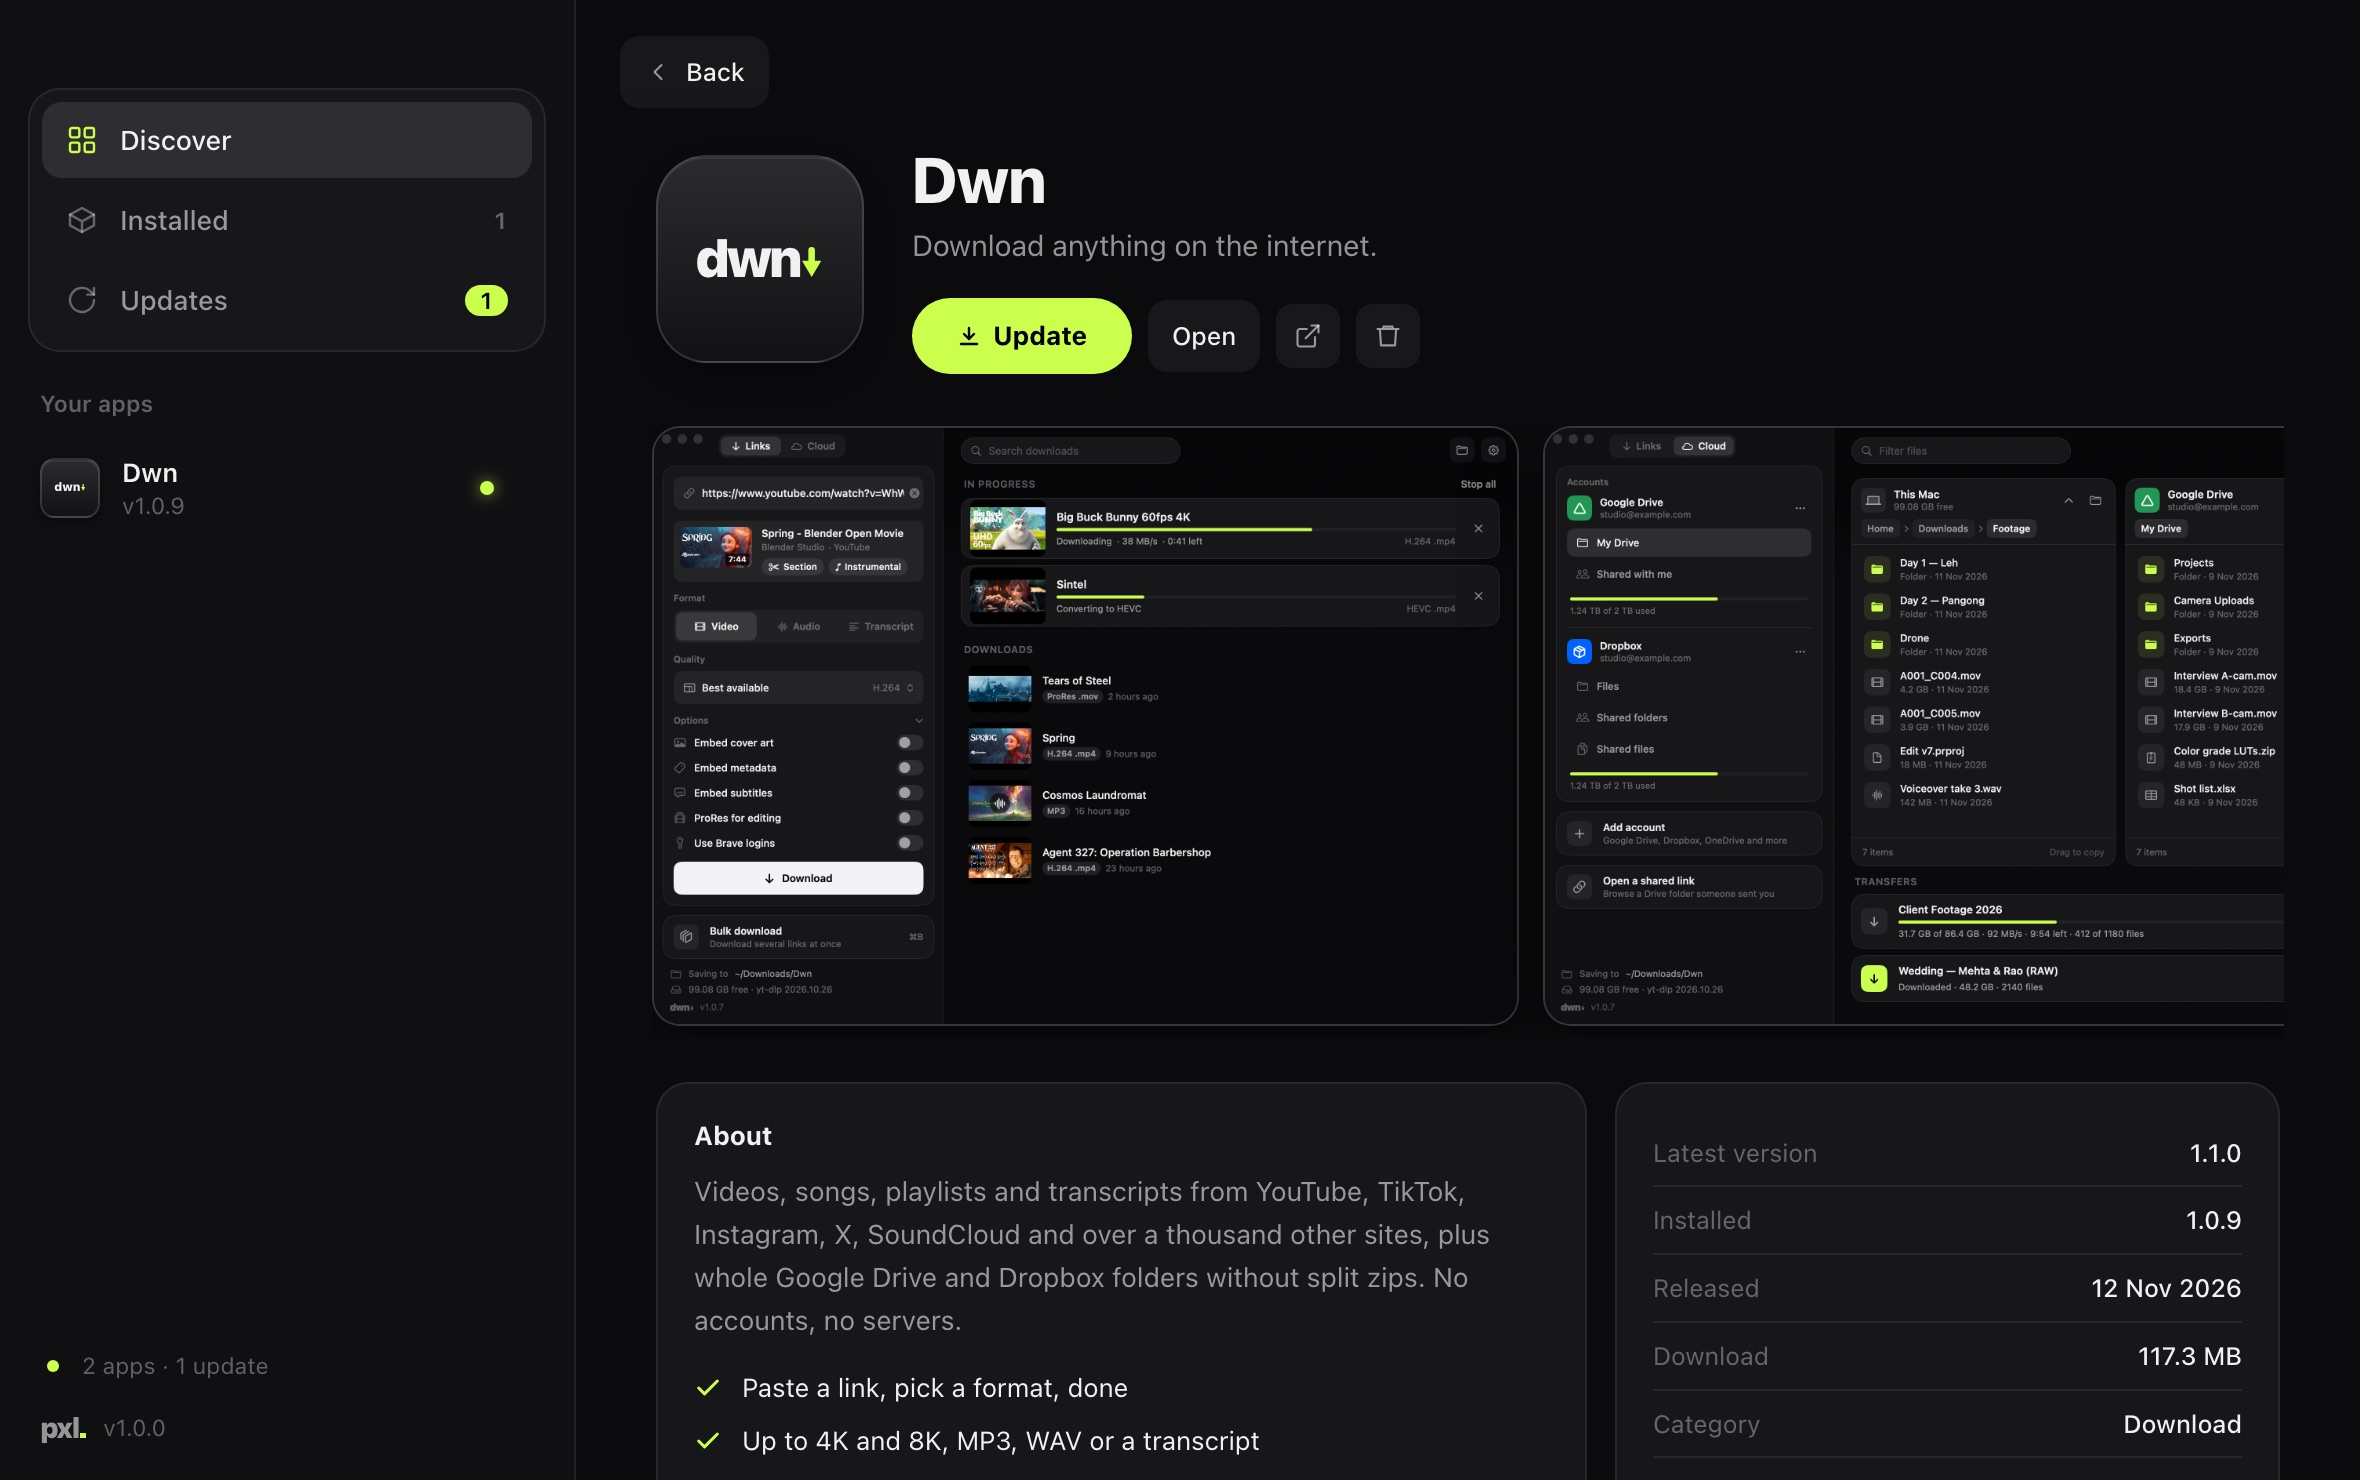
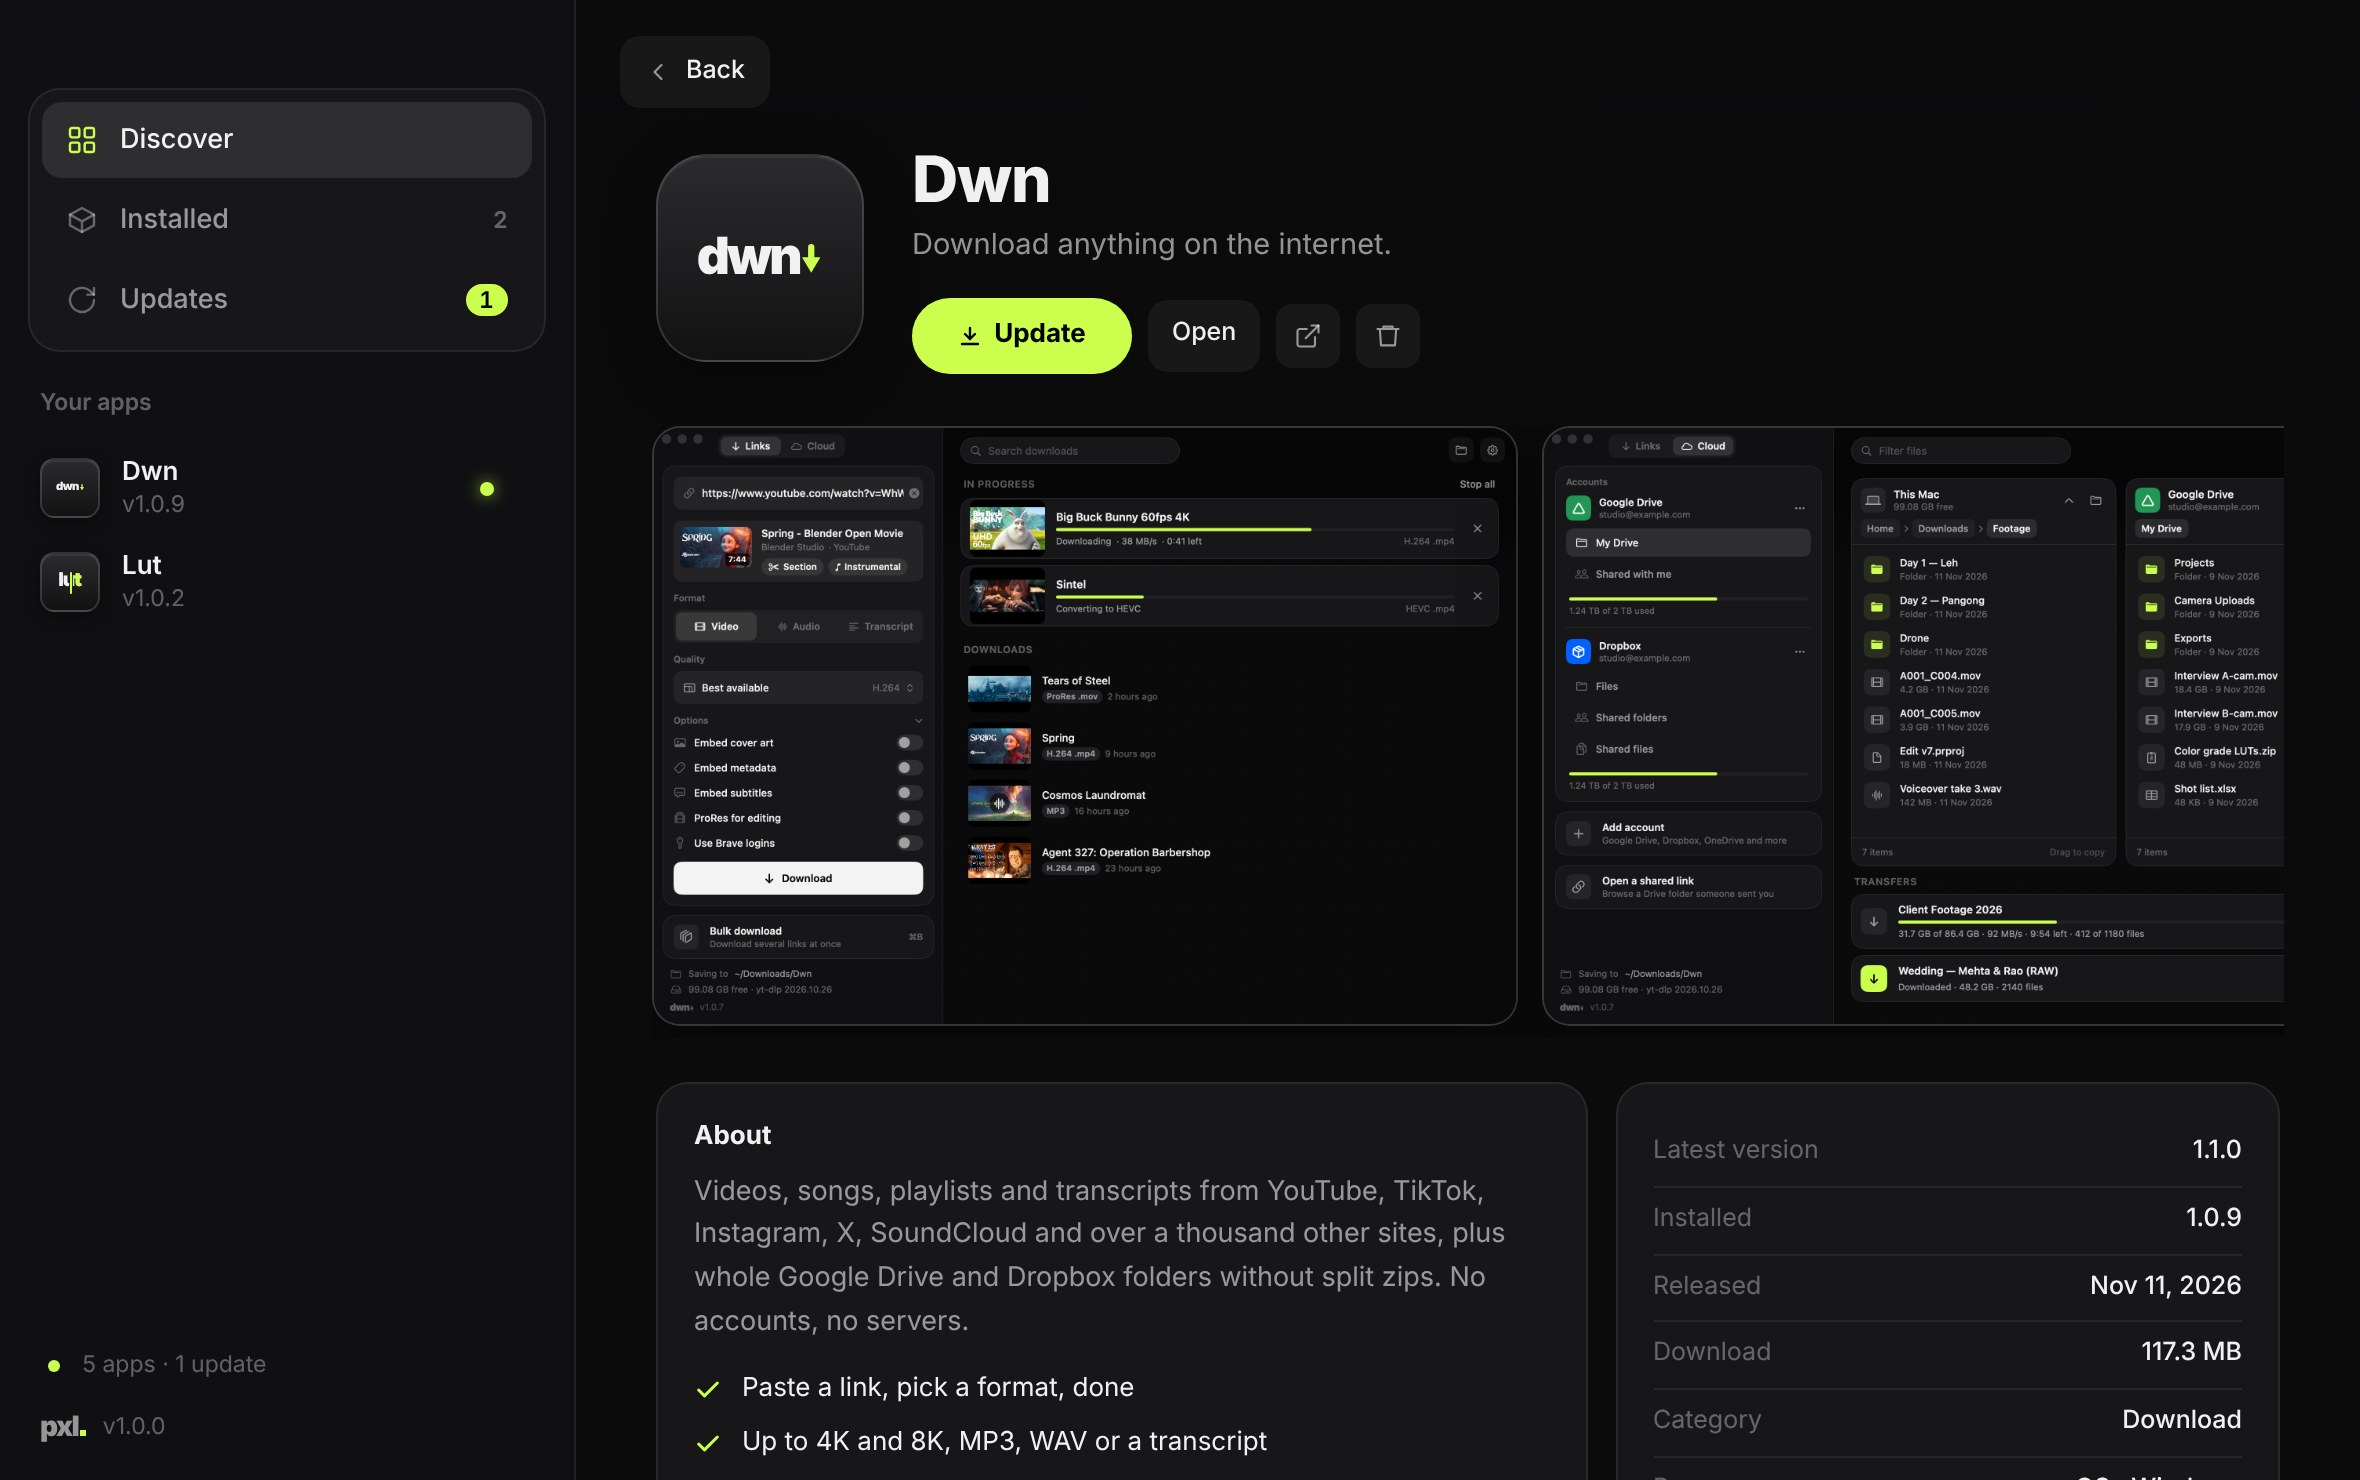
Launcher screenshots show all five apps (#9)
Claude-Session: https://claude.ai/code/session_0153qDJZLn1x3vLwES6bXL5A

diff --git a/index.html b/index.html
@@ -79,9 +79,9 @@
           <button role="tab" aria-selected="false" data-shot="welcome">First launch</button>
         </div>
         <div class="window pxl-window">
-          <img data-shot="discover" src="/shots/discover.jpg" width="2360" height="1480" alt="PXL's Discover page: Tag featured at the top, then cards for Dwn with an update waiting and Tag ready to install.">
+          <img data-shot="discover" src="/shots/discover.jpg" width="2360" height="1480" alt="PXL's Discover page: Stm featured at the top, then cards for Dwn, Tag, Stm, Lut and Hop.">
           <img data-shot="detail" src="/shots/detail.jpg" width="2360" height="1480" loading="lazy" hidden alt="Dwn's page in PXL: its icon, an Update button, screenshots, a description and version details.">
-          <img data-shot="updates" src="/shots/updates.jpg" width="2360" height="1480" loading="lazy" hidden alt="PXL's Updates page listing new versions of PXL and Dwn, with an Update all button.">
+          <img data-shot="updates" src="/shots/updates.jpg" width="2360" height="1480" loading="lazy" hidden alt="PXL's Updates page listing new versions of PXL and Dwn, with an Update all button and Dwn and Lut in the sidebar.">
           <img data-shot="welcome" src="/shots/welcome.jpg" width="2360" height="1480" loading="lazy" hidden alt="PXL's welcome screen on first launch: One click, Always current, No account.">
         </div>
         <p class="caption" data-caption>Every app, with what's new and one button to get it.</p>
